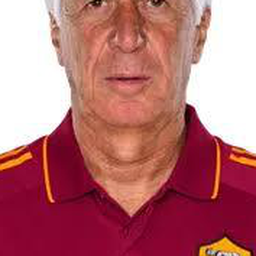
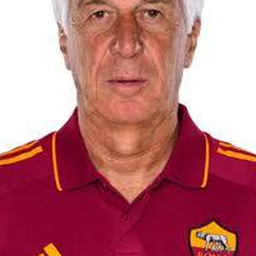
Fix desktop black screen on career open + improve Gasperini crop
- Router (ui.js go) now wraps screen render in try/catch: any render error
  shows a recovery screen (back to menu / reset career) instead of a black
  screen. This fixes the coach career opening black on desktop when an
  incompatible saved game from an older version fails to render.
- migrateCareer rebuilds the season (seasonSetup) when an old save lacks the
  current competitions structure, so old careers resume instead of crashing.
- Recompose Gasperini's photo with proper headroom (full head + shoulders).

Claude-Session: https://claude.ai/code/session_017sZqQpuqVsQgv2akhDzqgb

diff --git a/js/ui.js b/js/ui.js
@@ -36,7 +36,23 @@
     clear(app);
     var screen = el("section", { class: "screen is-active" });
     app.appendChild(screen);
-    routes[name](screen, params || {});
+    try {
+      routes[name](screen, params || {});
+    } catch (err) {
+      // evita "tela preta": qualquer erro ao renderizar vira uma tela de recuperação
+      console.error("Erro ao abrir a tela '" + name + "':", err);
+      clear(screen);
+      var isCoach = name.indexOf("coach") === 0, isPlayer = name.indexOf("player") === 0;
+      screen.appendChild(el("div", { class: "route-error" }, [
+        el("div", { class: "re-emoji", text: "⚠" }),
+        el("h2", { text: "Não foi possível abrir esta tela" }),
+        el("p", { text: "Isso costuma acontecer com um jogo salvo de uma versão anterior. Você pode voltar ao menu ou reiniciar esta carreira." }),
+        el("p", { class: "re-detail", text: (err && err.message) ? String(err.message) : "" }),
+        el("button", { class: "btn primary big", text: "🏠 Voltar ao menu", on: { click: function () { go("modes"); } } }),
+        (isCoach ? el("button", { class: "btn danger big", text: "🗑 Reiniciar carreira de treinador", on: { click: function () { try { TM.storage.clearCoachCareer(); } catch (e) {} go("modes"); } } }) : null),
+        (isPlayer ? el("button", { class: "btn danger big", text: "🗑 Reiniciar carreira de jogador", on: { click: function () { try { TM.storage.clearPlayerCareer && TM.storage.clearPlayerCareer(); } catch (e) {} go("modes"); } } }) : null)
+      ]));
+    }
     window.scrollTo(0, 0);
   }
 

diff --git a/css/styles.css b/css/styles.css
@@ -779,3 +779,11 @@ html, body {
   .tb-title { font-size: 17px; }
   .pitch { aspect-ratio: 2/3; }
 }
+
+/* tela de recuperação quando uma rota falha (evita tela preta) */
+.route-error { max-width: 460px; margin: 40px auto; padding: 0 20px; text-align: center; display: flex; flex-direction: column; align-items: center; gap: 12px; }
+.route-error .re-emoji { font-size: 52px; }
+.route-error h2 { font-size: 20px; margin: 0; }
+.route-error p { color: var(--text-dim); font-size: 14px; margin: 0; }
+.route-error .re-detail { font-family: monospace; font-size: 12px; color: #c0554f; background: rgba(192,85,79,.12); padding: 6px 10px; border-radius: 8px; word-break: break-word; }
+.route-error .btn { margin-top: 8px; min-width: 240px; }

diff --git a/js/competitions.js b/js/competitions.js
@@ -630,6 +630,10 @@
   // preenche campos novos em carreiras antigas (salvas antes destes recursos)
   function migrateCareer(career) {
     if (!career) return career;
+    // save de versão antiga sem a estrutura de competições atual → reconstrói a temporada
+    if (!career.comps || !career.comps.league || !career.comps.league.fixtures || !career.order || career.orderIndex == null) {
+      try { seasonSetup(career); } catch (e) { /* deixa o roteador tratar */ }
+    }
     if (!career.money) career.money = CURRENCIES.eur;
     if (!career.injuries) career.injuries = {};
     if (!career.suspensions) career.suspensions = {};
